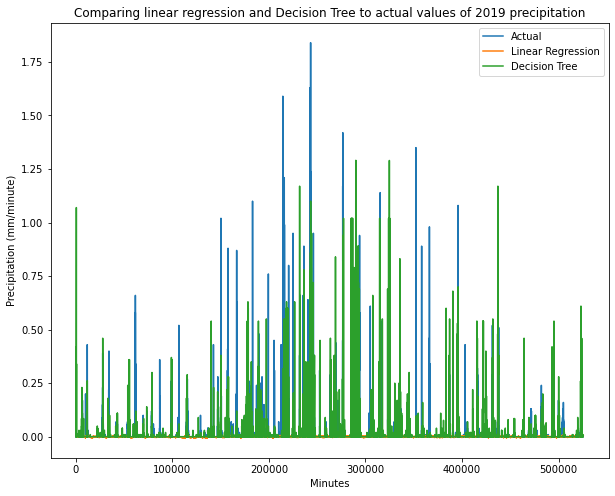
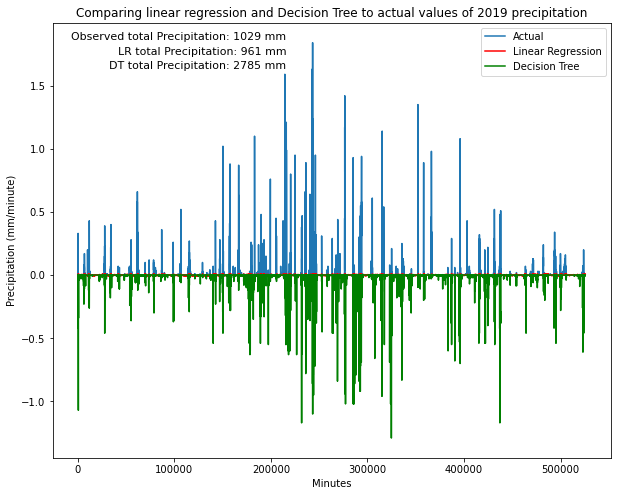
small citation added

diff --git a/ST2021/thesis.tex b/ST2021/thesis.tex
@@ -783,12 +783,16 @@ But we can do better.
 
 
 % Why you need it. 
-Although we have one model for the baseline for predicting precipitation based on climatology, precipitation itself is not based on climatology, but on other meteorological variables as well. As a result we turn to machine learning, which can produce models based on expereince and the usage of data (Need to cite). For weather, forecasts are often based on Global Models, which involve simulating the atmosphere and its conditions into the future. These models are incredibly complex, as they often deal with challenges of modeling the atmosphere in 3 dimensions, as well as the immense computational power needed to run these models in the first place. Machine Learning in looking at what conditions could yield us precipitation and how intense such precipitation could be is less computationally intensive and can give us a good guide on what to expect if we encounter 
+Although we have one model for the baseline for predicting precipitation based on climatology, precipitation itself is not based on climatology, but on other meteorological variables as well. As a result we turn to machine learning, which can produce models based on expereince and the usage of data (Need to cite). For weather, forecasts are often based on Global Models, which involve simulating the atmosphere and its conditions into the future. These models are incredibly complex, as they often deal with challenges of modeling the atmosphere in 3 dimensions, as well as the immense computational power needed to run these models in the first place. Machine Learning in looking at what conditions could yield us precipitation and how intense such precipitation could be is less computationally intensive and can give us a good guide on what to expect if we encounter. A method like Decision Tree can be used to select variables, assess how relative importance of variables, handle missing values, predict, and manipulate data. Decision Trees are made up of Nodes, of which we have a root node, which represents a choice and a leaf node which represents the final results of the decision tree. Branches are the choices that are made from the root nodes \cite[]{DT}. 
+
 
 \subsection{Method}
 
 There are a couple of methods from machine learning that can be used for predicting precipitation. We have two methods, linear regression and decision tree, that are used to predict precipitation based on the other parameters that we give to the model. Linear regression will use regression to compute the best fit based on the variables you give and will yield a linear function. Decision tree divides the data up into different sections based on certain criterias. The tree can be as small or as big as you want, but that will affect how the model predict what you want. 
-We also have neural networks, which inputs data and outputs data and can be used to simulate 
+
+% We also have neural networks, which inputs data and outputs data and can be used to simulate (Need more info)
+
+
 
 
 \subsection{Results}
@@ -817,11 +821,13 @@ regression model using 2018 data and trying to predict 2019 precipitation.
           will need to see what training the model more would do to
           predictions.}
 \end{figure}
+
 \begin{figure}
 	\centering
 	\includegraphics[width = 0.75\textwidth]{Figures/predict_and_actual_2019_precip.png}
 	\caption[Comparing ML predicted values to actual precipitation values]{Comparing the predicted values from decision tree regression and the actual values of the 2019 precipitation data.  }
 \end{figure}
+
 \subsection{Discussion}
 \begin{figure}
 	\centering
@@ -832,7 +838,7 @@ regression model using 2018 data and trying to predict 2019 precipitation.
           that the total precipitation for observed 2019 is 1029~mm, while
           the linear regression model, which has negative precipitation, has
           a total precipitation of 961~mm. Meanwhile the decision tree
-          regression model had a total precipitation of 2950~mm. }
+          regression model had a total precipitation of 2785~mm. }
 \end{figure}
 \subsection{Discussion}
 
